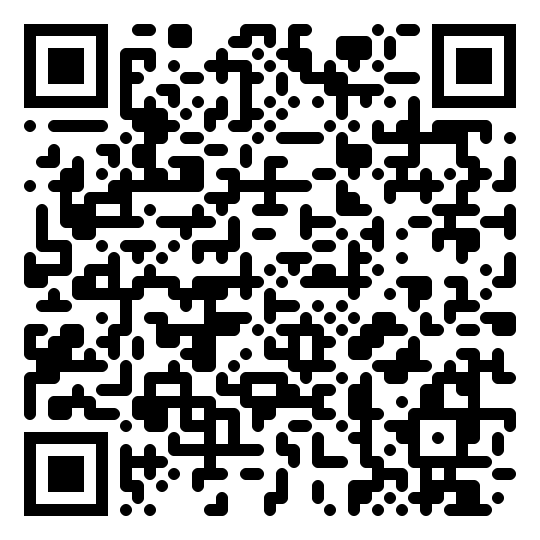
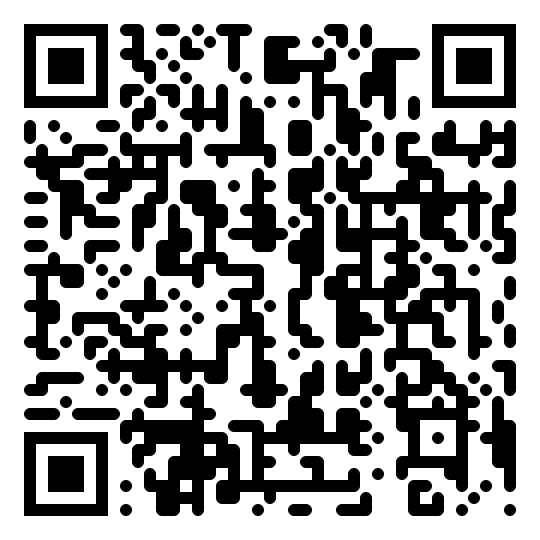
WhatsApp number -> +90 850 302 49 13

diff --git a/index.html b/index.html
@@ -363,7 +363,7 @@ footer .bottom{border-top:1px solid rgba(255,255,255,.12);margin-top:2rem;paddin
       <div>
         <div class="wa-card">
           <div class="head"><div class="circle"><svg class="ico"><use href="#i-wa"/></svg></div><div><h3 style="margin:0" data-i18n="ct.wa">WhatsApp'tan yazın</h3><span class="note" data-i18n="ct.reply">Dakikalar içinde yanıt</span></div></div>
-          <a class="num" data-wa href="#">+90 850 305 40 94</a>
+          <a class="num" data-wa href="#">+90 850 302 49 13</a>
           <div class="qr"><img id="qrimg" src="img/qr-tr.png" alt="WhatsApp QR"><p data-i18n="ct.qr">Kamerayı okutun — hazır mesajla teklif talebiniz anında bize düşsün.</p></div>
         </div>
         <div class="info">
@@ -420,7 +420,7 @@ footer .bottom{border-top:1px solid rgba(255,255,255,.12);margin-top:2rem;paddin
       <div>
         <h4 data-i18n="ft.contact">İletişim</h4>
         <ul>
-          <li><a data-wa href="#">+90 850 305 40 94</a></li>
+          <li><a data-wa href="#">+90 850 302 49 13</a></li>
           <li><a href="mailto:info@gustovaturizm.com">info@gustovaturizm.com</a></li>
           <li><span data-i18n="ct.addr">DMN Plaza Kat 3, Akçaburgaz Mah., Esenyurt / İstanbul</span></li>
         </ul>
@@ -486,8 +486,8 @@ en:{
  "ft.about":"Corporate hotels, flights, transfers and visa solutions. Agency rates, one invoice, 24/7 single contact.","ft.services":"Services","ft.contact":"Contact"
 }};
 const WA = {
- tr:"https://wa.me/908503054094?text="+encodeURIComponent("Merhaba, kurumsal otel rezervasyonu için teklif almak istiyorum."),
- en:"https://wa.me/908503054094?text="+encodeURIComponent("Hello, I'd like a quote for corporate hotel bookings.")
+ tr:"https://wa.me/908503024913?text="+encodeURIComponent("Merhaba, kurumsal otel rezervasyonu için teklif almak istiyorum."),
+ en:"https://wa.me/908503024913?text="+encodeURIComponent("Hello, I'd like a quote for corporate hotel bookings.")
 };
 // capture Turkish defaults from the DOM once
 document.querySelectorAll('[data-i18n]').forEach(el=>{I18N.tr[el.dataset.i18n]=el.innerHTML;});
